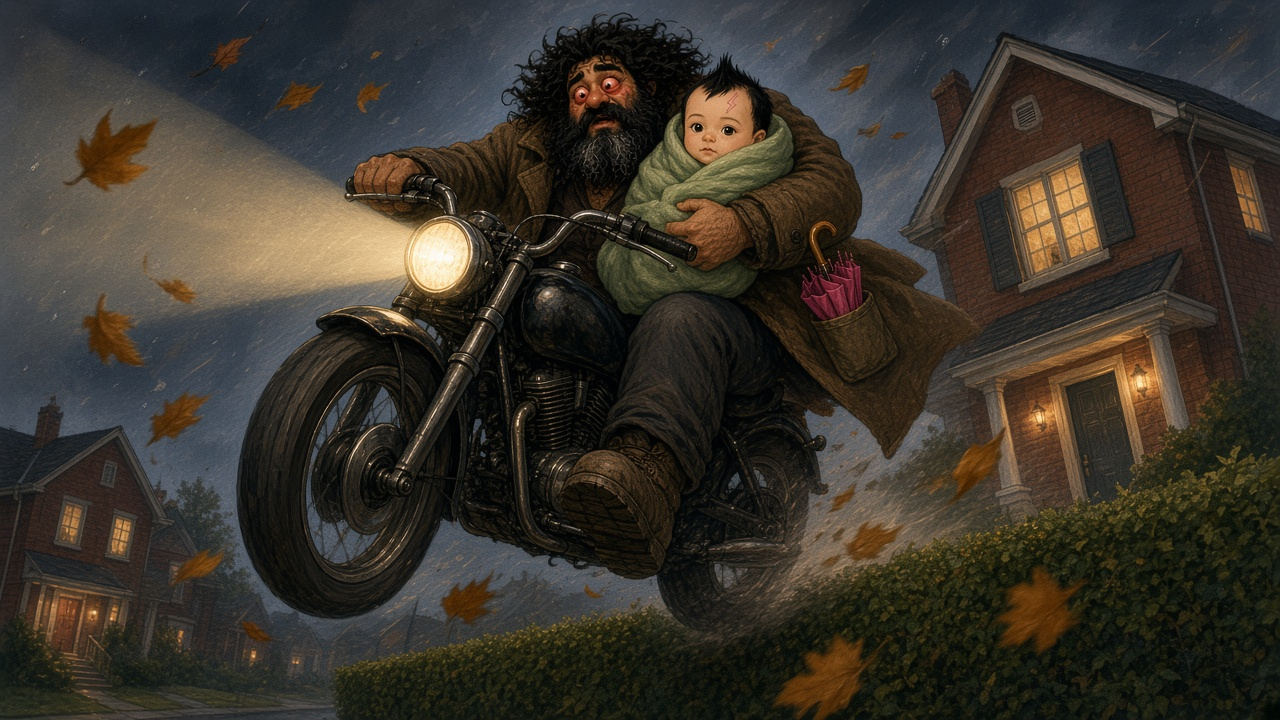
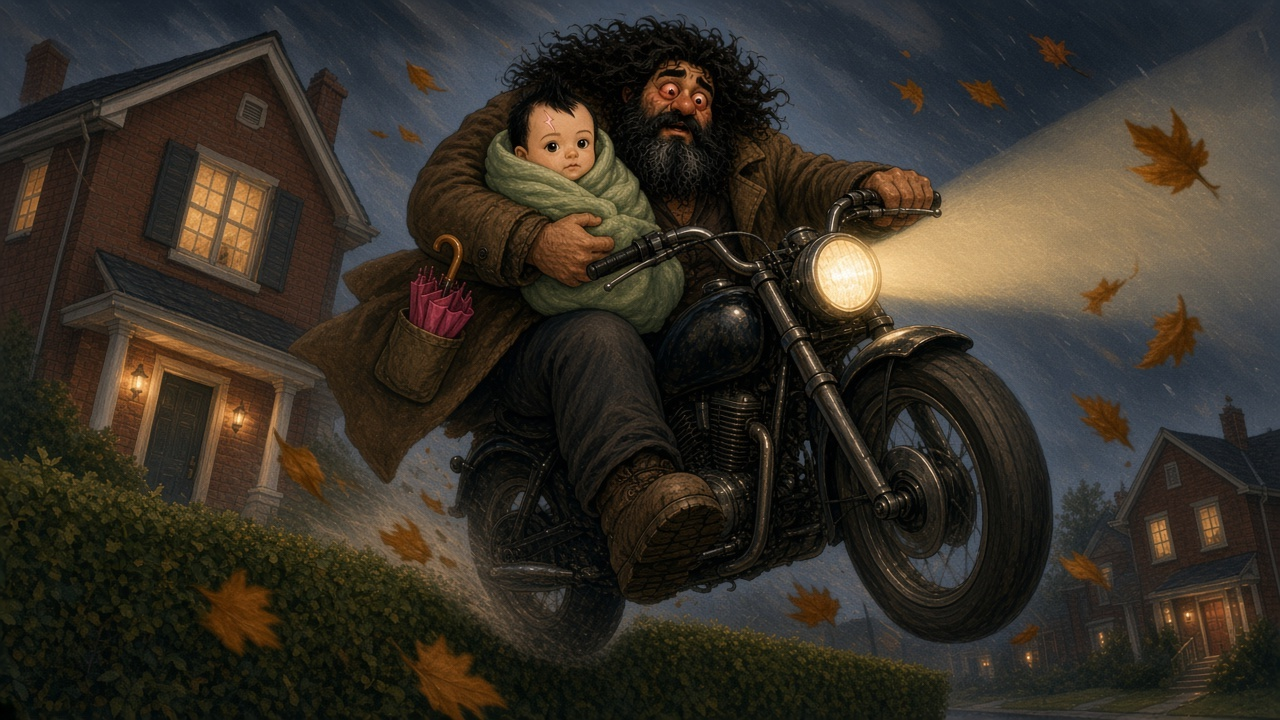
Place Baby Harry’s scar above his right eye (#5)
* Let comic pages turn on click and vary panel widths.

Clicking a page now flips the book, including clicks on the drawings. Each row is two panels, sized half and half or two thirds and one third so the longer line gets the wider frame.

* Reset comic panel margins so row widths stay even.

Browser figure margins were shrinking every panel, so a one-third frame became a sliver. Panels now fill a half, two thirds, or one third of the row.

* Fit the open comic to a landscape A4 sheet.

Each half of the sheet is one page. Page margins, the center fold, and the gaps between panels are tightened so the drawings fill the paper.

* Give the long comic frame to scenery panels.

A row stays half and half, or opens to 2:1 or 1:2 when one panel is a place or a wide view. Close-ups and conversations keep the even split.

* Replace the lantern sample with Chapter 1 panels.

Keep the A4 click-to-turn book and give the long frame to wide street, sky, and house views. Draw all 24 chapter panels from locked character sheets.

* Rename the flip book folder away from the old story.

The chapter 1 book now lives in flipbook/, and the Pages note points at that path.

* Move baby Harry's lightning scar onto his right brow.

The Chapter 1 reference and the panels that show him now keep the bolt above his anatomical right eye.

* Mirror six Chapter 1 panels left to right.

Panels 11, 12, 13, 14, 15, and 20 were flopped in place so the existing drawings match the page, without redrawing them.
[…]

diff --git a/flipbook/story.js b/flipbook/story.js
@@ -21,8 +21,8 @@ window.BOOK = {
     {
       "n": 2,
       "page": 1,
-      "scene": "Dumbledore stands at the left edge and puts the streetlamps out in a chain. The nearest lamp is still flaring. The tabby watches from the wall.",
-      "expressions": "He looks along the lamps, calm, almost fond of the dark he is making.",
+      "scene": "Dumbledore stands at the left edge and lifts his wand. The nearest street lamp blooms on, warm light opening over the wet pavement. A thin brown tabby watches from the wall.",
+      "expressions": "He looks along the lamps, calm, as the light catches. He does not look at the houses.",
       "dialogue": [],
       "art": "art/c1-p1-p2.jpg"
     },
@@ -37,9 +37,12 @@ window.BOOK = {
     {
       "n": 4,
       "page": 1,
-      "scene": "Extreme close-up of the silver lighter, a small steady flame, and Dumbledore’s lined fingers. Everything else is black.",
-      "expressions": "No face. The hand is steady, not theatrical.",
-      "dialogue": [],
+      "scene": "Dumbledore has turned toward a low garden wall. A thin brown tabby with no collar sits there, still a cat. One street lamp glows in the fog behind them.",
+      "expressions": "He looks at the cat, recognizing her. The cat looks back, ears forward, perfectly still.",
+      "dialogue": [
+        { "who": "Dumbledore", "line": "I should have known that you would be here, Professor McGonagall." },
+        { "who": "McGonagall", "line": "Good evening, Professor Dumbledore." }
+      ],
       "art": "art/c1-p1-p4.jpg"
     },
     {

diff --git a/reference/harry-potter-philosophers-stone-panels.md b/reference/harry-potter-philosophers-stone-panels.md
@@ -87,11 +87,11 @@ The street dies, the wrong family is judged, the night Voldemort fell is told, a
 
 #### C1-P1-P2
 
-- **Beat:** Dumbledore puts the streetlamps out, one by one.
-- **Image:** A tall figure at the left edge, arm raised. Down the street, lamps click dark in a chain, the nearest one still flaring.
-- **Setting:** The same wet street. The yellow window is now the only warm light besides the lamps he has not reached. Reflections die in the puddles as each lamp goes.
-- **Who:** Dumbledore, very tall, silver hair and beard, half-moon spectacles, deep purple star-patterned robes, tall hat, plum cloak. In his raised hand, a small silver lighter-shaped device. The cat is a small shape on the wall behind him.
-- **Faces:** He looks along the row of lamps, calm, almost fond of the dark he is making. He does not look at the houses.
+- **Beat:** Dumbledore lights a street lamp with his wand.
+- **Image:** A tall figure at the left edge, wand raised. The nearest street lamp blooms on, warm light opening over the wet pavement. A lamp farther down is just beginning to glow.
+- **Setting:** The same wet street, Privet Drive at night. Fog at knee height, identical brick houses, puddles starting to hold the new light.
+- **Who:** Dumbledore, very tall, silver hair and beard, half-moon spectacles, indigo-purple star-patterned robes, tall plum hat, plum cloak. His wand is raised, the tip bright, as the lamp comes on. The thin brown tabby is a small shape on the wall.
+- **Faces:** He looks along the row of lamps, calm, as the light catches. He does not look at the houses.
 - **Dialogue:** No dialogue.
 
 #### C1-P1-P3
@@ -105,12 +105,12 @@ The street dies, the wrong family is judged, the night Voldemort fell is told, a
 
 #### C1-P1-P4
 
-- **Beat:** One flame is left in the street.
-- **Image:** Extreme close-up of the silver device, a small steady flame, Dumbledore’s lined fingers around it. Everything else is black.
-- **Setting:** No background. The flame lights only skin, silver metal, and the edge of a purple sleeve.
-- **Who:** Dumbledore’s hand only.
-- **Faces:** No face. The hand is steady, not theatrical.
-- **Dialogue:** No dialogue.
+- **Beat:** Dumbledore notices the cat.
+- **Image:** Dumbledore has turned. He looks straight at a thin brown tabby on the garden wall. The cat looks back. This is the moment he recognizes her, not a later conversation.
+- **Setting:** The wet street, one lamp now glowing, fog, dark brick houses. The wall is low. No other people.
+- **Who:** Dumbledore in indigo-purple star robes, plum hat, half-moon spectacles, silver hair and beard, wand lowered. The cat is Professor McGonagall still in cat form: a thin brown tabby, spectacle-like marks around the eyes, no collar.
+- **Faces:** He looks at the cat. The cat looks at him, ears forward, knowing, perfectly still.
+- **Dialogue:** **Dumbledore:** "I should have known that you would be here, Professor McGonagall." **McGonagall:** "Good evening, Professor Dumbledore."
 
 #### C1-P1-P5
 
